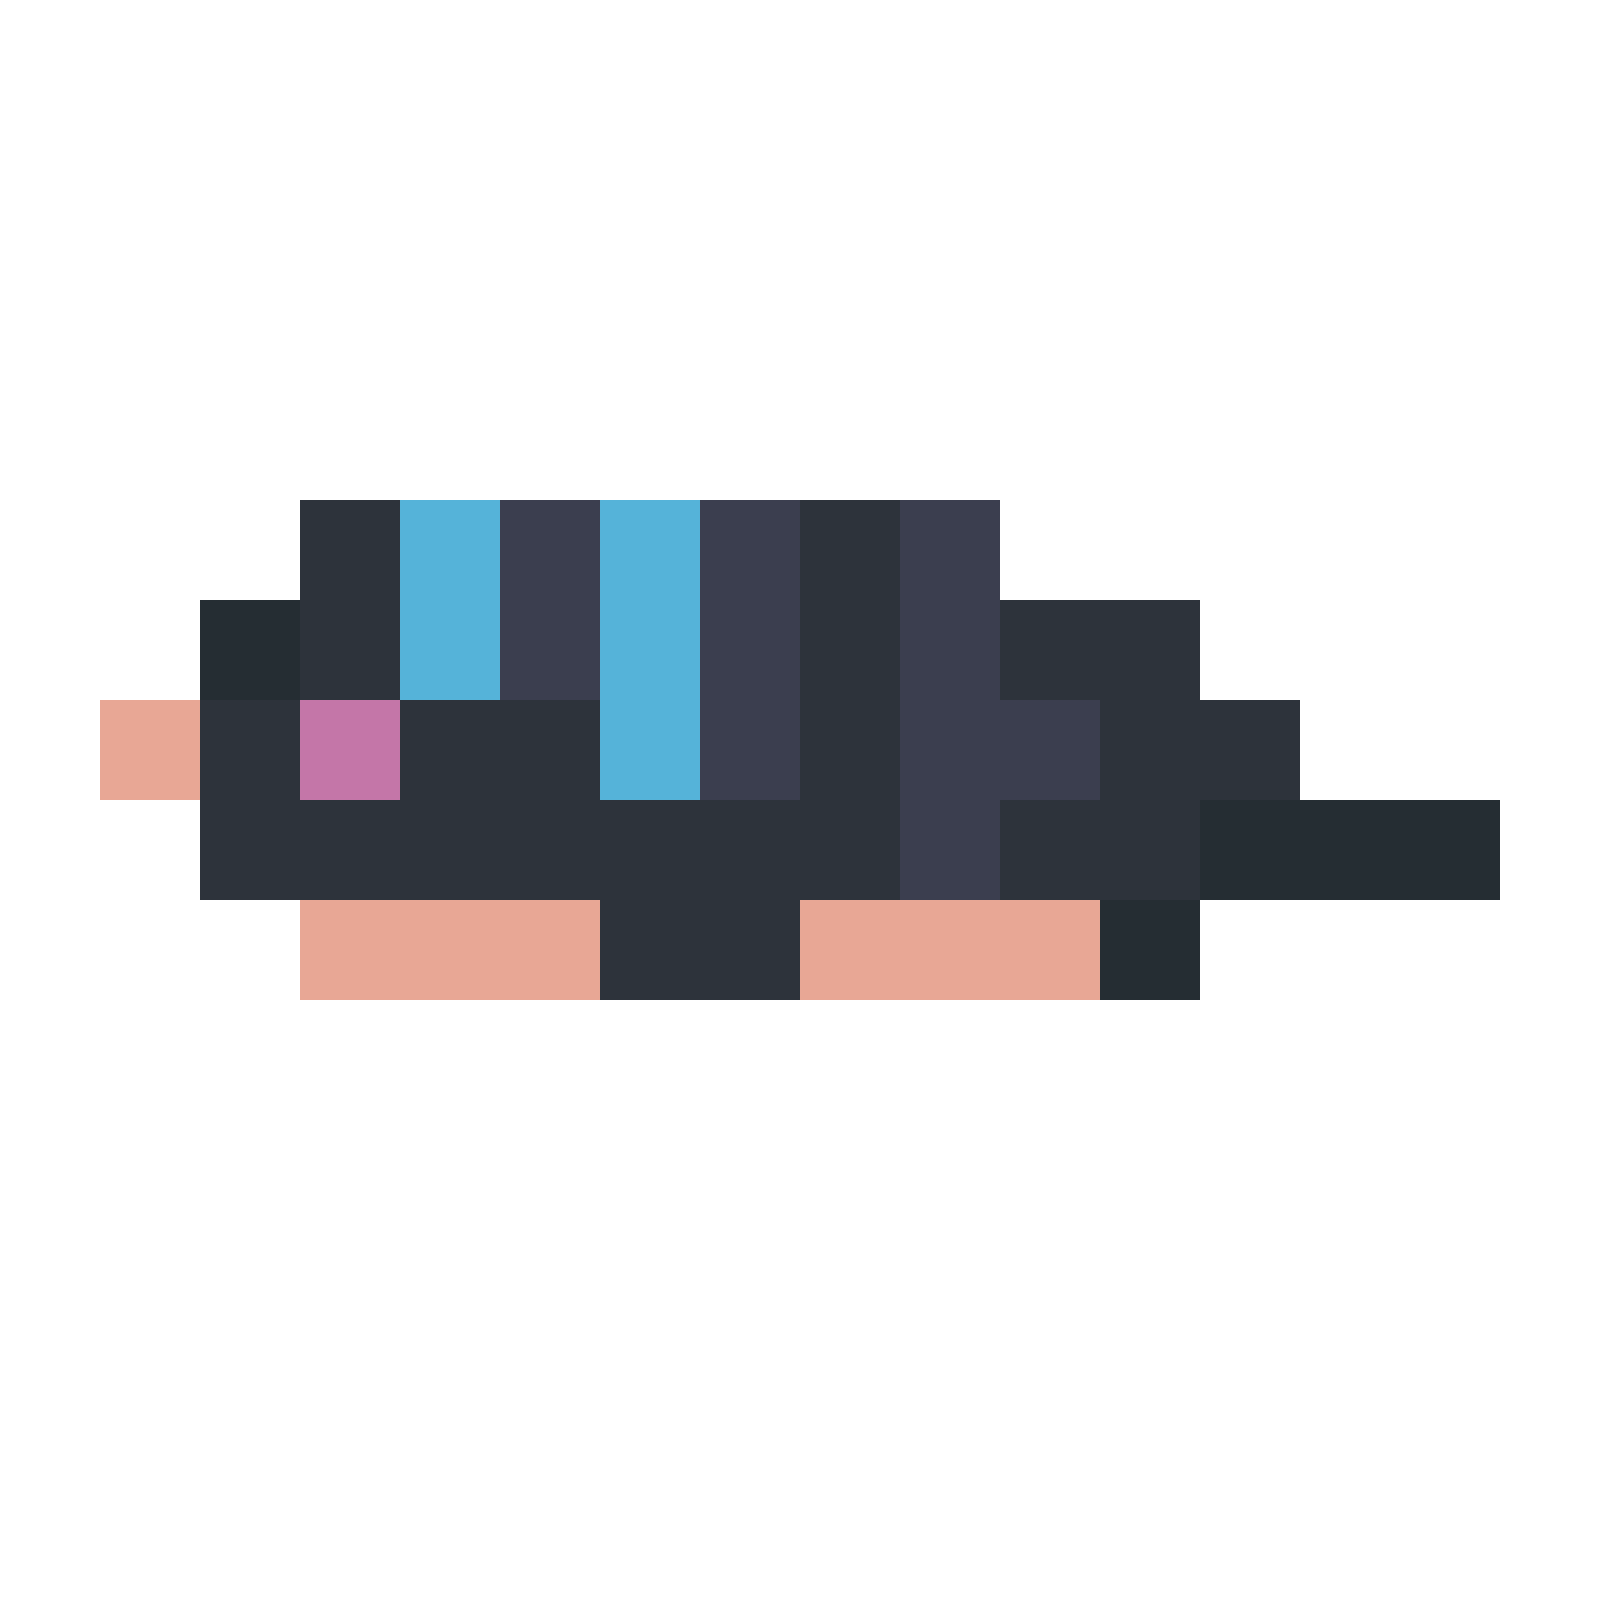
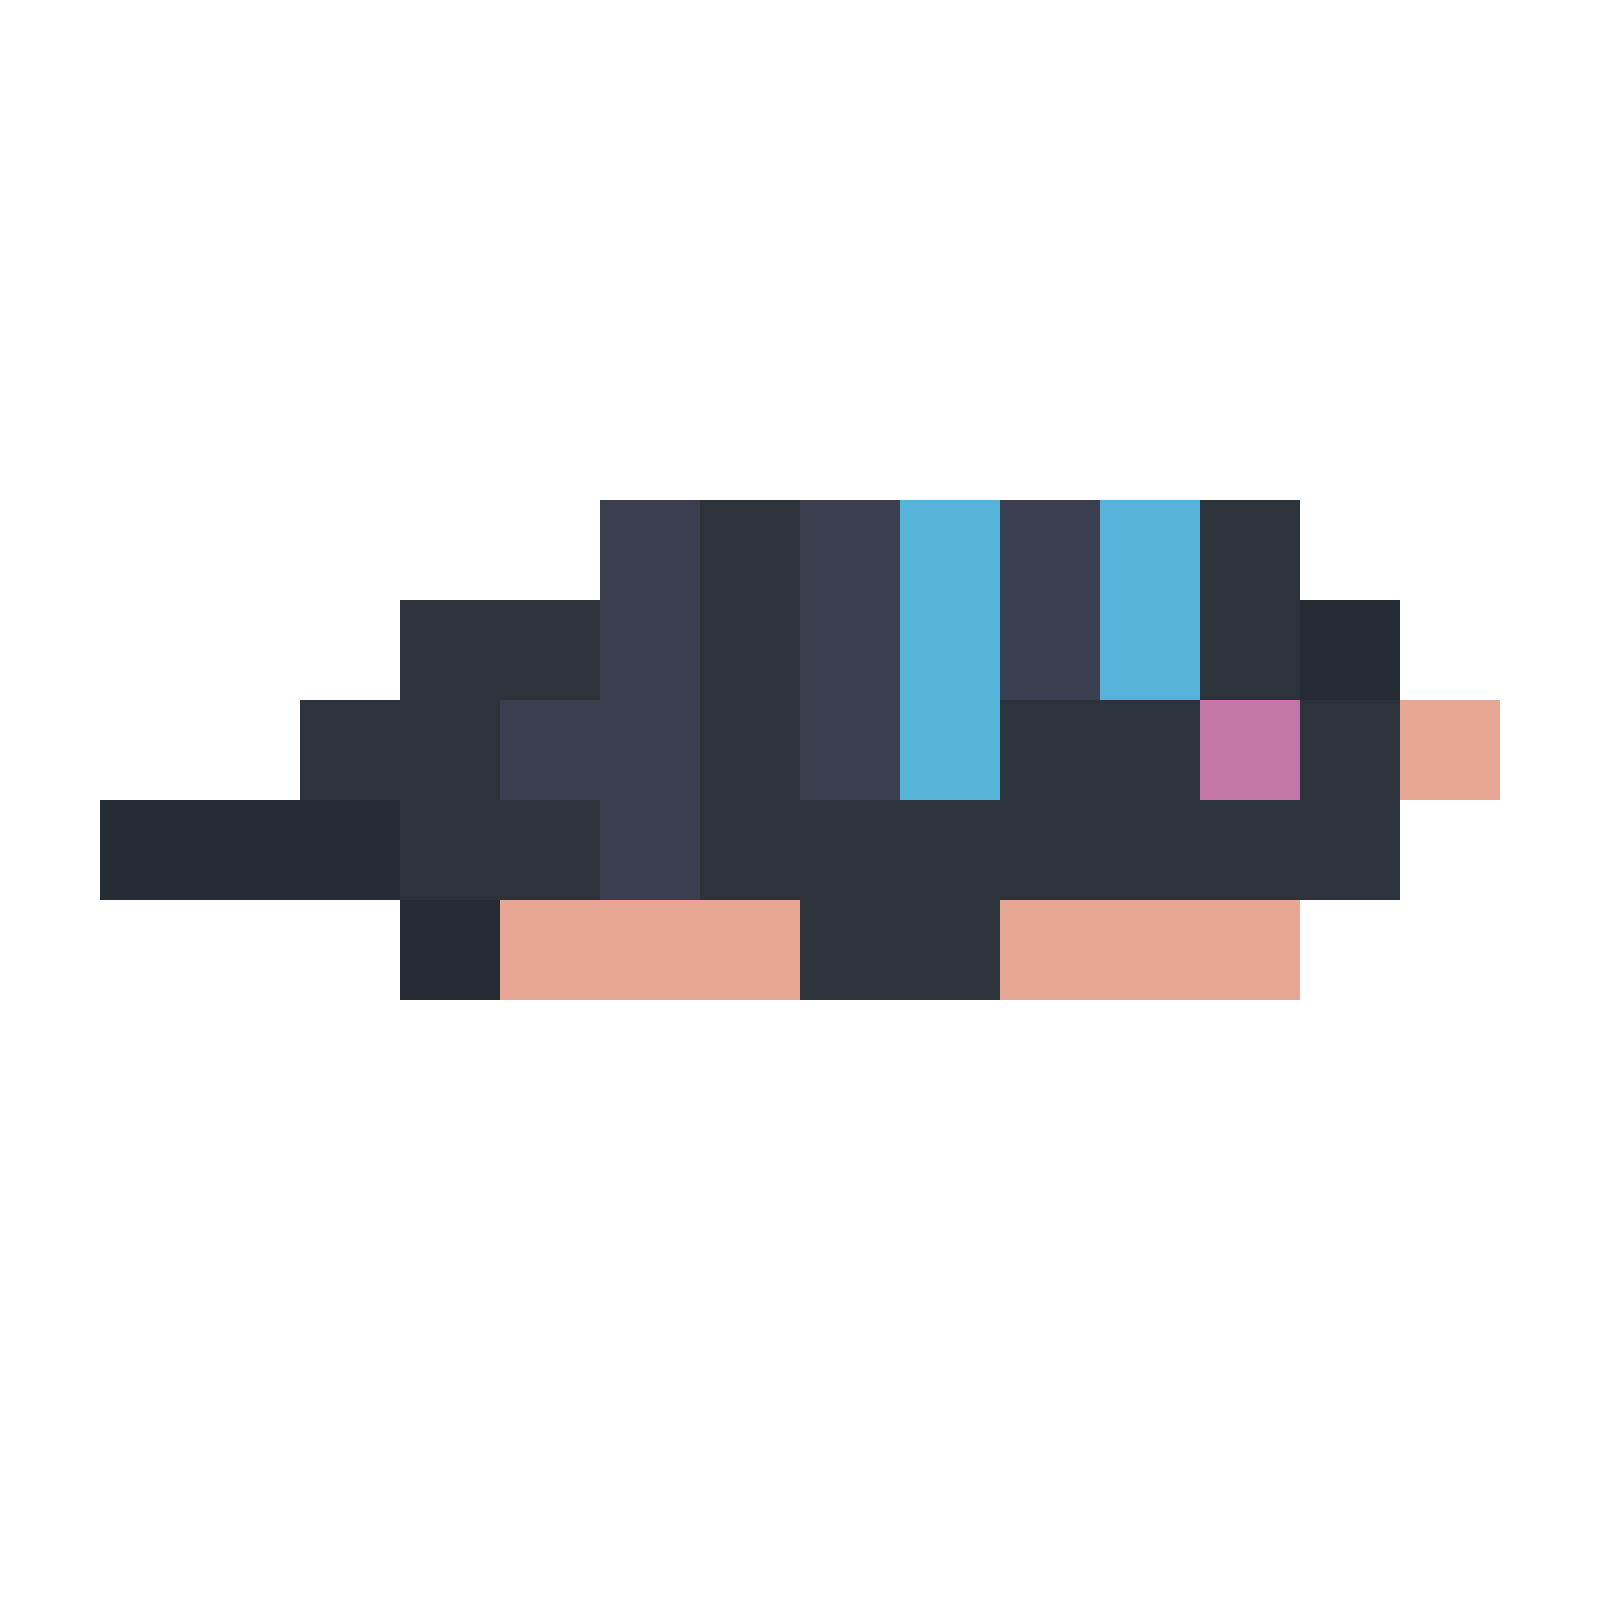
editando toupeira

diff --git a/toupeira/script.js b/toupeira/script.js
@@ -10,6 +10,7 @@ document.addEventListener("keydown", (e) => {
   if (e.key == " ") {
     enterrado = true;
     toupeira.style.bottom = "0px";
+    toupeira.src = "toupcava.png";
   }
   if (!start) {
     start = true;
@@ -25,6 +26,7 @@ document.addEventListener("keyup", (e) => {
   if (e.key == " ") {
     enterrado = false;
     toupeira.style.bottom = "50px";
+    toupeira.src = "toupcorren.png";
   }
   if (e.key == "h" || e.key == "H") {
     window.location.href = "../index.html";
@@ -44,6 +46,7 @@ document.addEventListener("touchstart", ()=>{
 document.addEventListener("touchend", () => {
     const toupeira = document.getElementById("toupeira");
     enterrado = false;
+    toupeira.src = "toupcorren.png";
     toupeira.style.bottom = "50px";
 });
 

diff --git a/toupeira/index.html b/toupeira/index.html
@@ -9,7 +9,7 @@
 </head>
 <body>
     <div>
-        <img src="" alt="" id="toupeira">
+        <img src="toupcorren.png" alt="" id="toupeira">
         <img src="" alt="" id="pedra">
         <img src="" alt="" id="enterro">
     </div>

diff --git a/toupeira/style.css b/toupeira/style.css
@@ -31,7 +31,6 @@ body{
     height: 50px;
     position: absolute;
     bottom: 50px;
-    background-color: rgb(47, 0, 255);
     left: 10px;
 }
 
